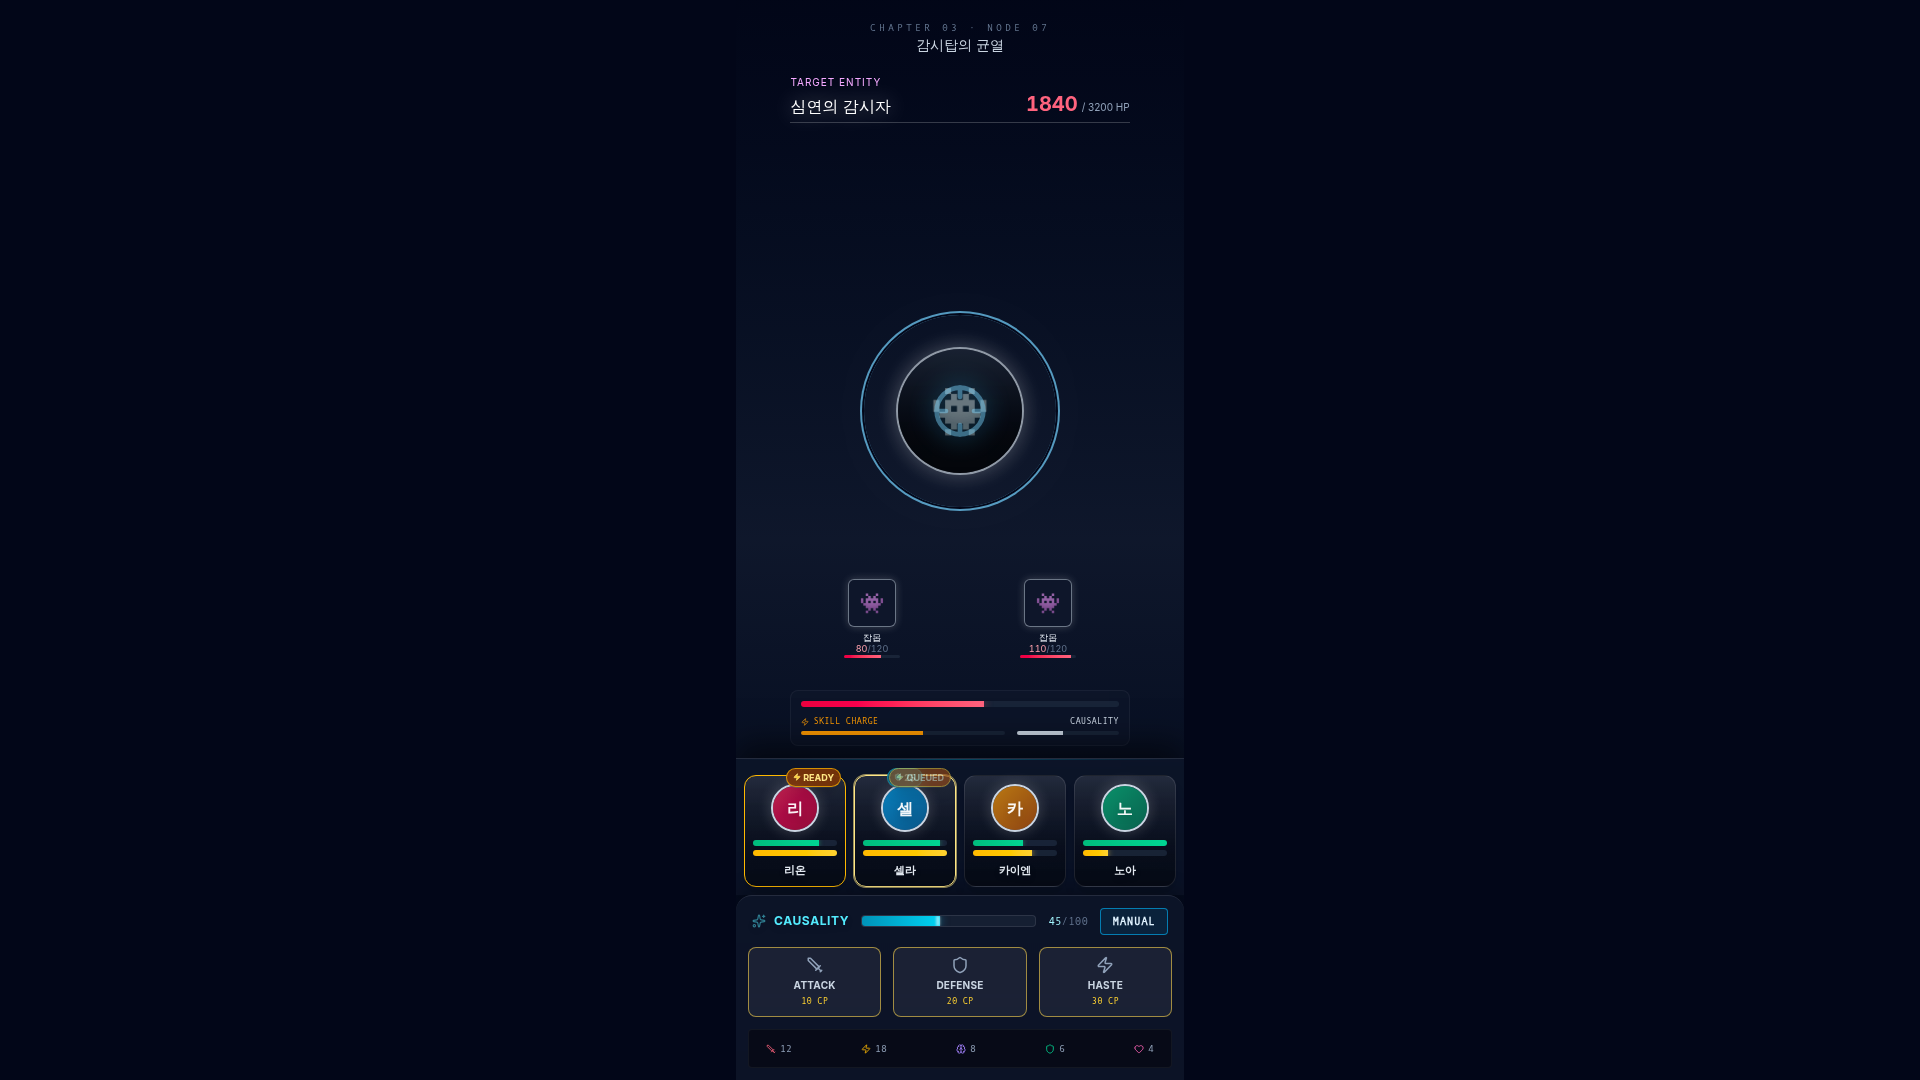
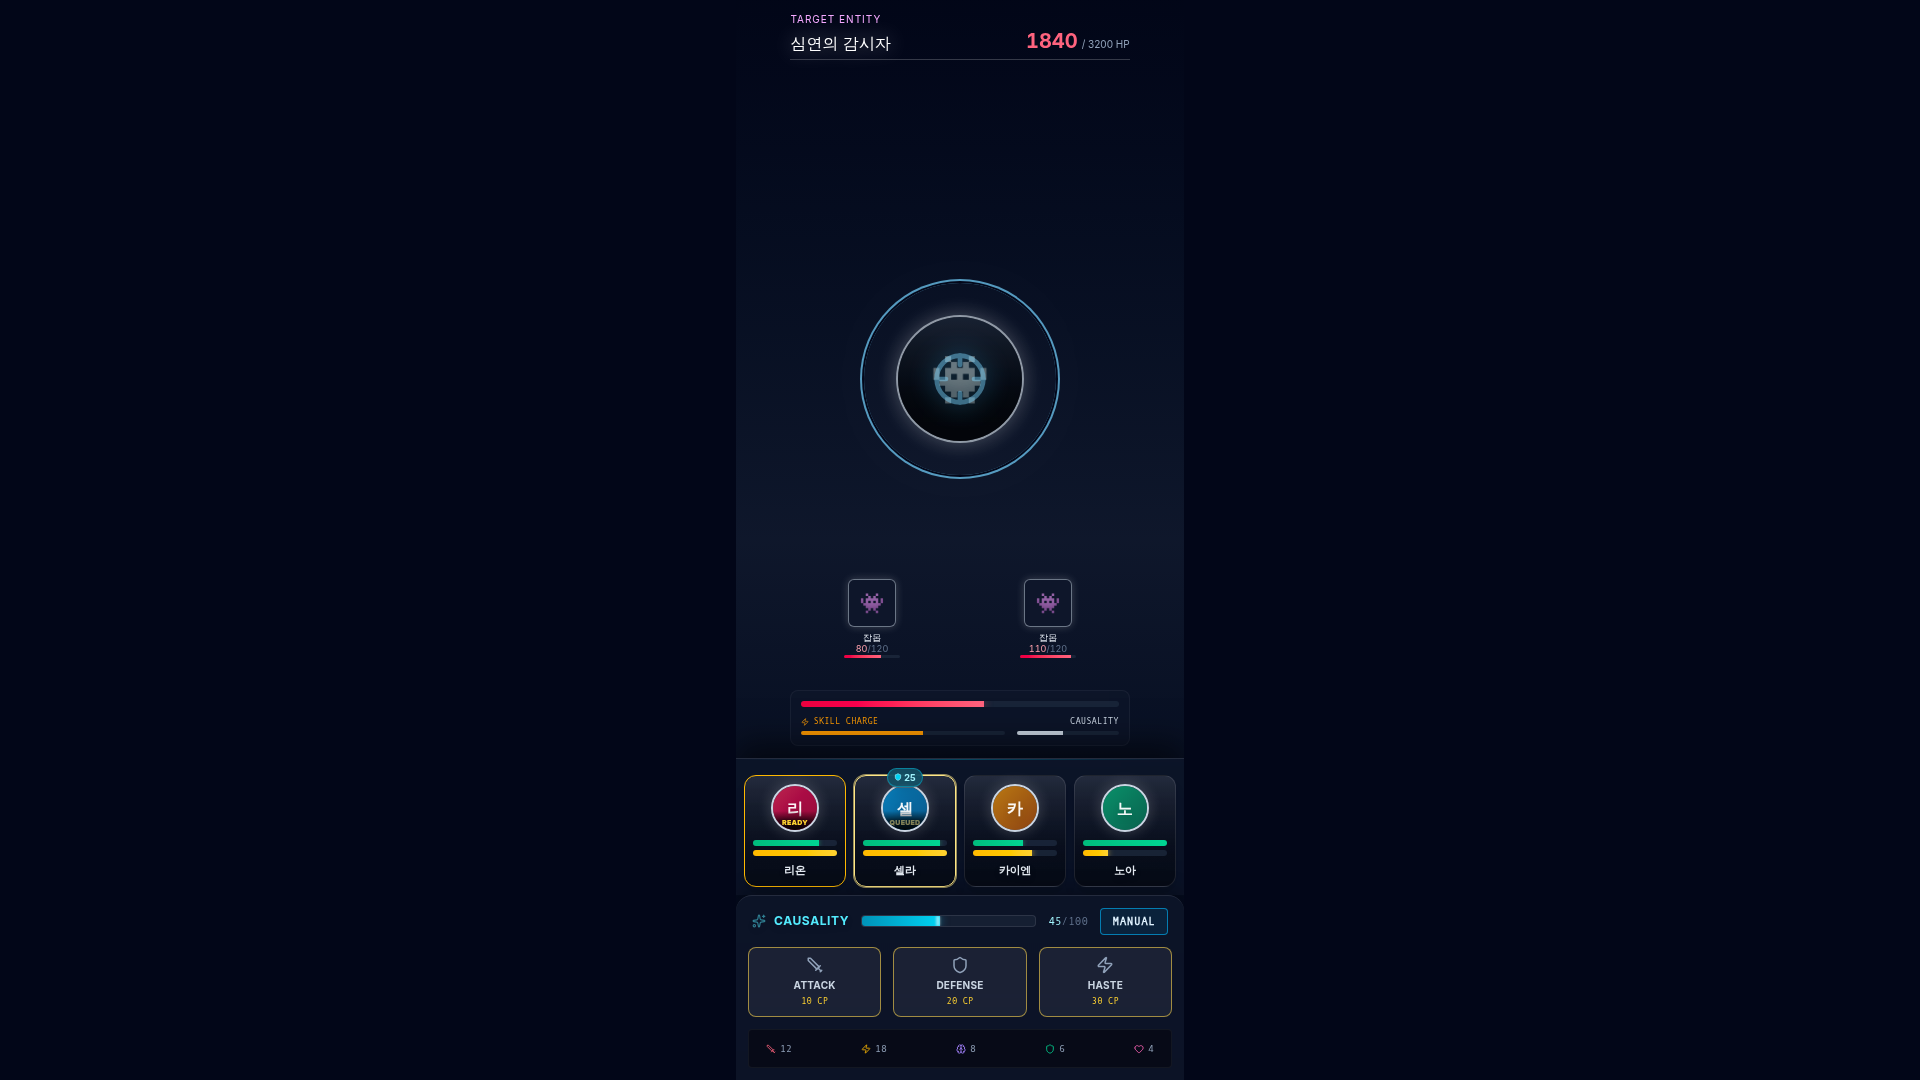
Update character portraits to display status indicators
Modify AllyZone component to overlay READY/QUEUED status text with gradient on character portraits.

Replit-Commit-Author: Agent
Replit-Commit-Session-Id: 60894603-2725-4b4c-810b-fc8cfe6129e7
Replit-Commit-Checkpoint-Type: full_checkpoint
Replit-Commit-Event-Id: d05d48fe-3ed3-4a9e-a23b-aa583dd1f4a1
Replit-Commit-Screenshot-Url: https://storage.googleapis.com/screenshot-production-us-central1/15871901-d802-4987-9bb7-255e0179b9d9/60894603-2725-4b4c-810b-fc8cfe6129e7/8wG1IYE
Replit-Helium-Checkpoint-Created: true

diff --git a/artifacts/mockup-sandbox/src/components/mockups/battle-redesign/_shared.tsx b/artifacts/mockup-sandbox/src/components/mockups/battle-redesign/_shared.tsx
@@ -292,22 +292,25 @@ function AllyZone({ variant, t, state }: { variant: Variant; t: ReturnType<typeo
               </div>
             )}
 
-            {ally.ultReady && (
-              <div className={`absolute -top-2 right-1 z-20 flex items-center gap-0.5 text-[9px] font-bold px-1.5 py-0.5 rounded-full border shadow-lg backdrop-blur-sm ${
-                ally.pending
-                  ? "text-amber-100 bg-amber-700/90 border-amber-300 animate-pulse"
-                  : "text-amber-200 bg-amber-900/90 border-amber-400/70"
-              }`}>
-                <Zap size={8} className="fill-amber-300" />
-                {ally.pending ? "QUEUED" : "READY"}
-              </div>
-            )}
-
             <div className={`w-12 h-12 rounded-full overflow-hidden mb-2 border-2 border-slate-300 shadow-[0_0_15px_rgba(255,255,255,0.2)] relative bg-slate-800 flex-shrink-0`}>
               <div className={`absolute inset-0 bg-gradient-to-br ${ally.color} opacity-70`} />
               <span className="absolute inset-0 flex items-center justify-center text-base font-black text-white/95 drop-shadow-md">
                 {ally.name.charAt(0)}
               </span>
+
+              {/* [Step 7-e] READY/QUEUED 라벨 — 초상화 하단에 검정 그라디언트 + 컬러 텍스트로 오버레이.
+                  부모 .rounded-full + .overflow-hidden 으로 자동 클리핑됨. */}
+              {ally.ultReady && (
+                <div className="absolute inset-x-0 bottom-0 z-20 flex items-center justify-center pt-2 pb-1 pointer-events-none bg-gradient-to-t from-black/95 via-black/65 to-transparent">
+                  <span className={`text-[7px] font-black tracking-[0.04em] leading-none drop-shadow-[0_1px_2px_rgba(0,0,0,0.95)] ${
+                    ally.pending
+                      ? "text-amber-200 animate-pulse"
+                      : "text-amber-300"
+                  }`}>
+                    {ally.pending ? "QUEUED" : "READY"}
+                  </span>
+                </div>
+              )}
             </div>
 
             {/* HP */}